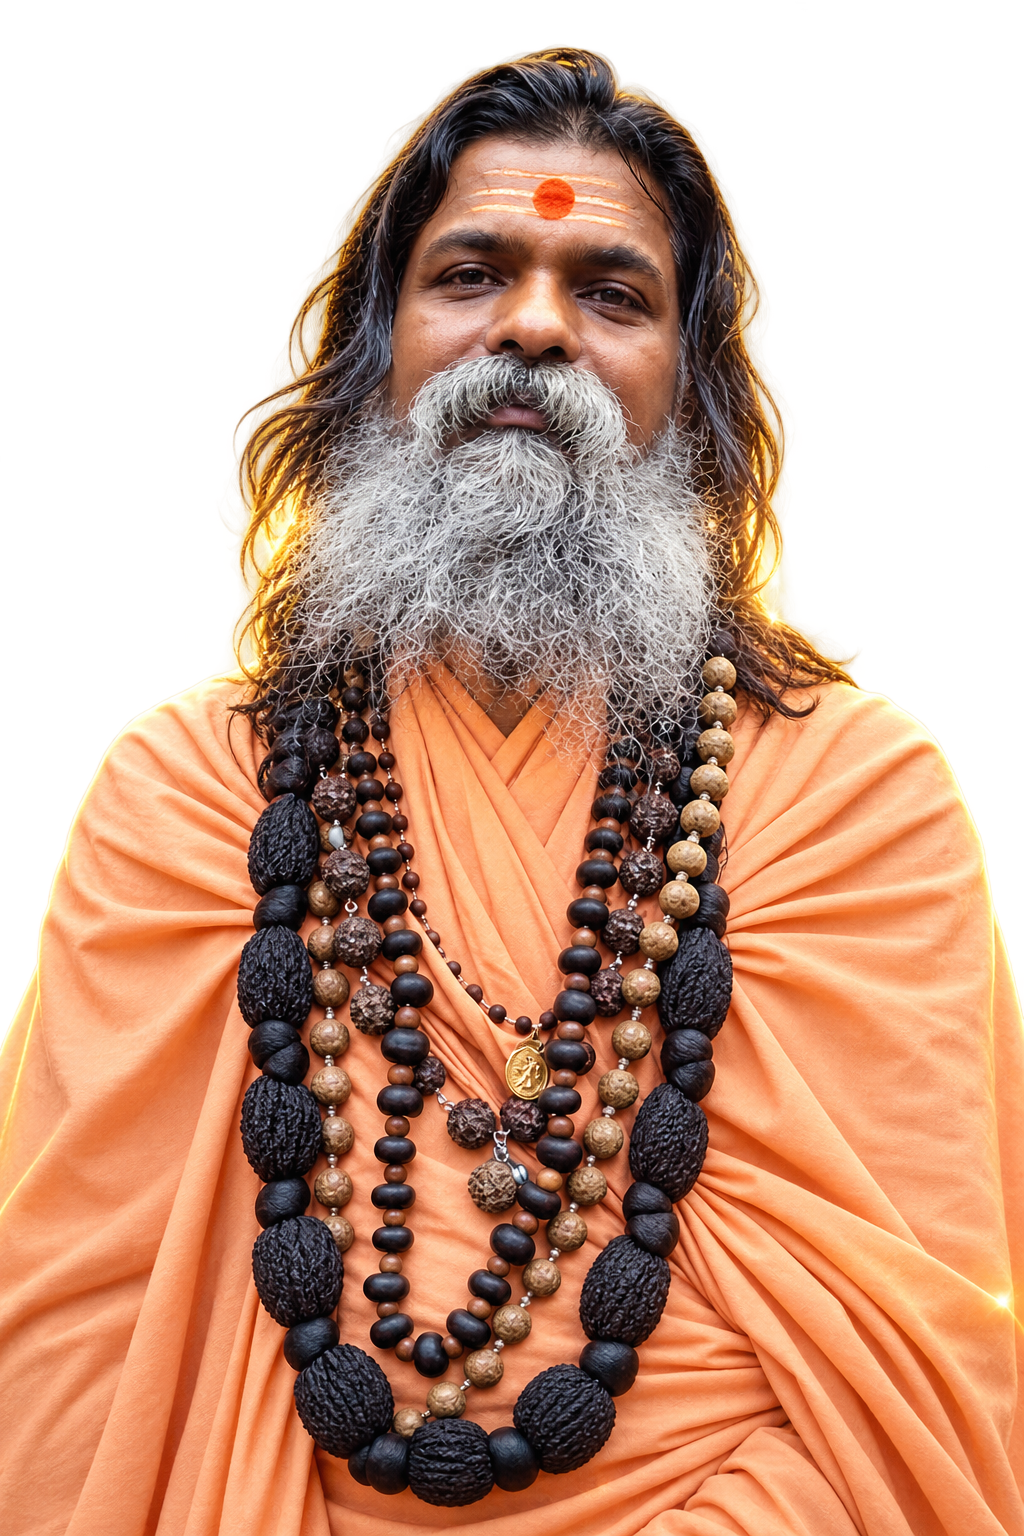
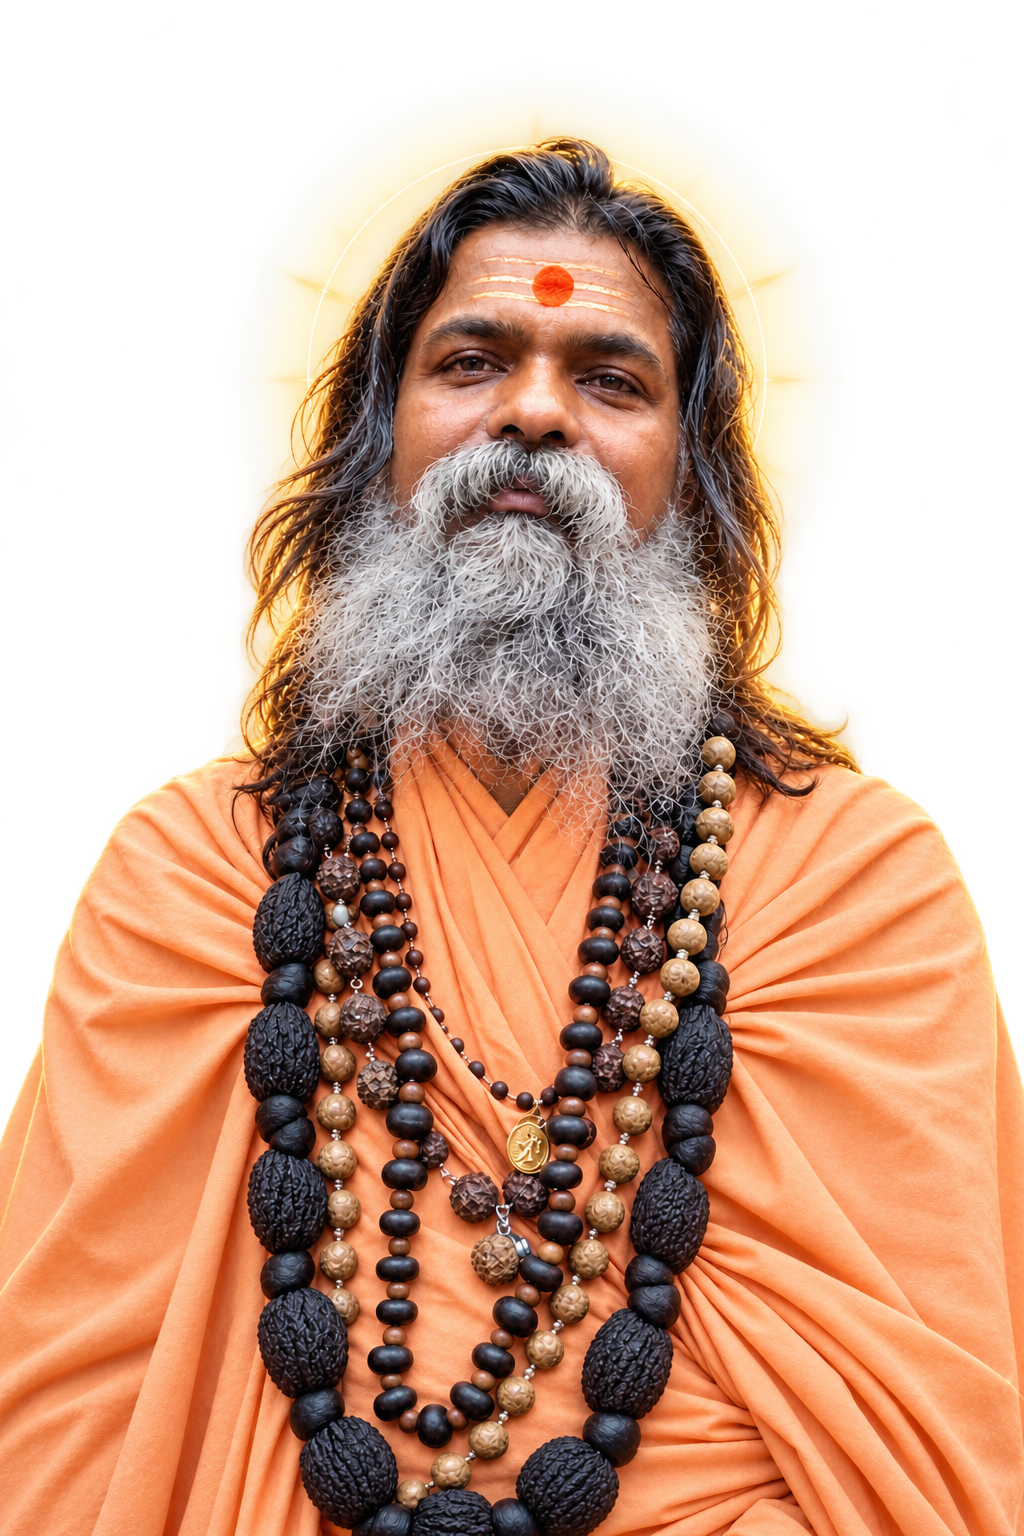
images

diff --git a/src/lib/translations.ts b/src/lib/translations.ts
@@ -256,7 +256,7 @@ export const translations = {
         {
           title: "कृष्णा कृष्णा - लव यू कृष्णा",
           credits: [
-            "गायिका - तान्या सोजतिया, नताशा बिलिमोरिया, ऐश्वर्या नायर",
+            "गायिका - तान्या सोजतिया, नताशा बिलिमोरिया, ऐश्वर्या नायर, निशी दुबे",
             "गीत एवं संगीत - रवि जैन",
           ],
         },
@@ -727,7 +727,7 @@ export const translations = {
         {
           title: "Krishna Krishna - Love You Krishna",
           credits: [
-            "Singer - Tanya Sojatia, Natasha Billimoria, Aishwarya Nayar",
+            "Singers - Tanya Sojatia, Natasha Billimoria, Aishwarya Nayar, Nishee Dube",
             "Lyrics & Music - Ravi Jain",
           ],
         },
